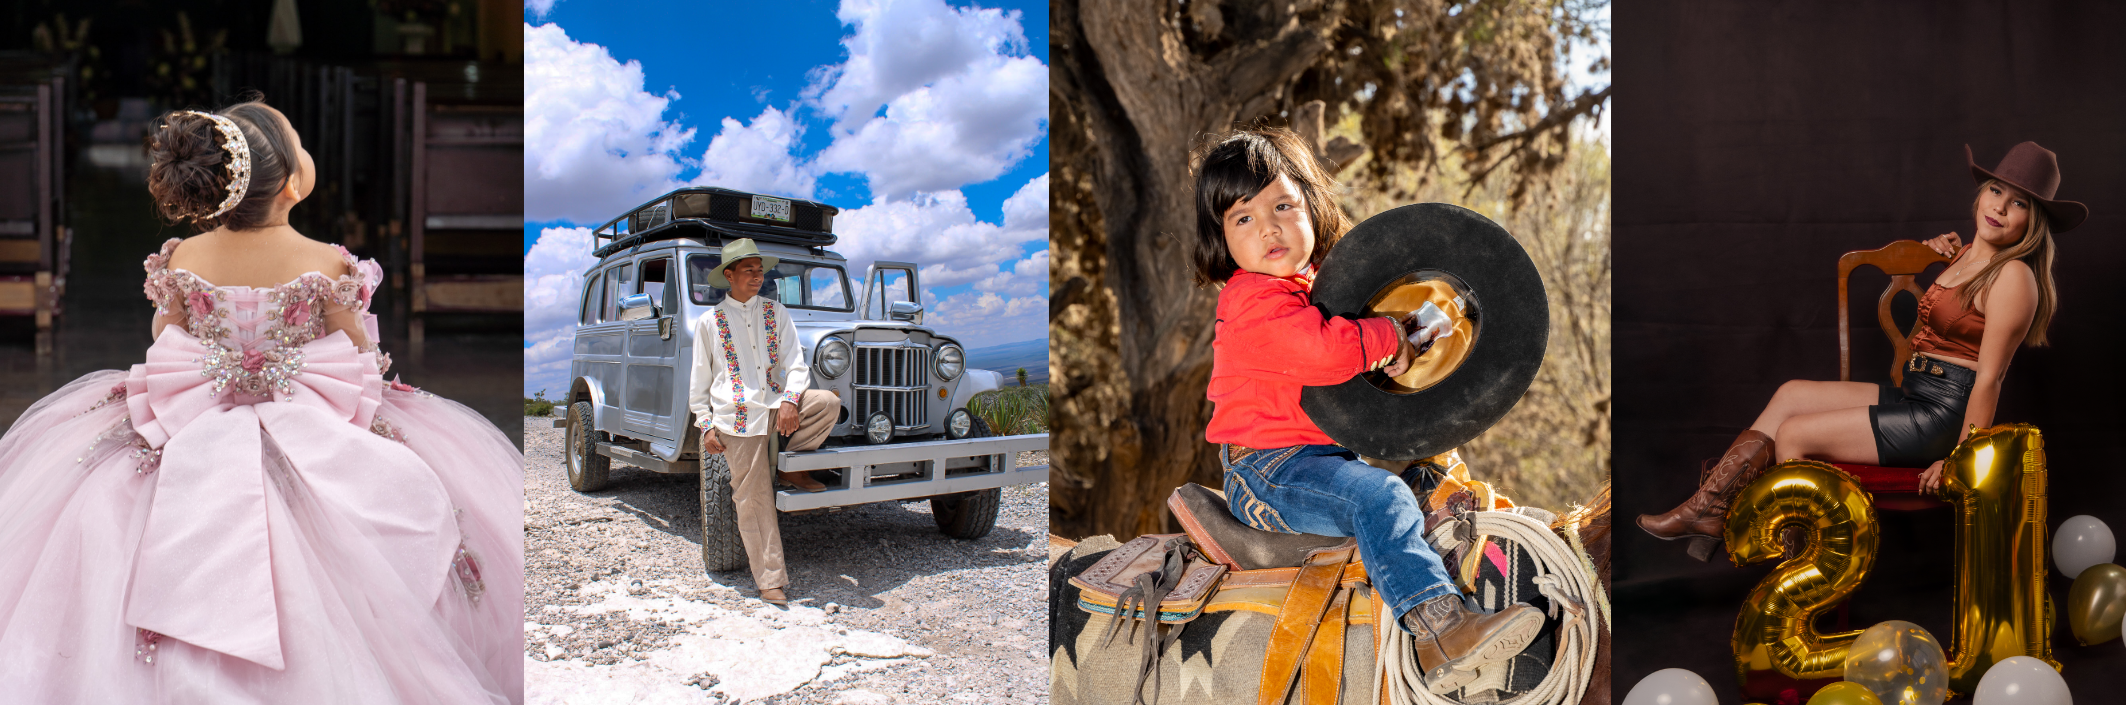
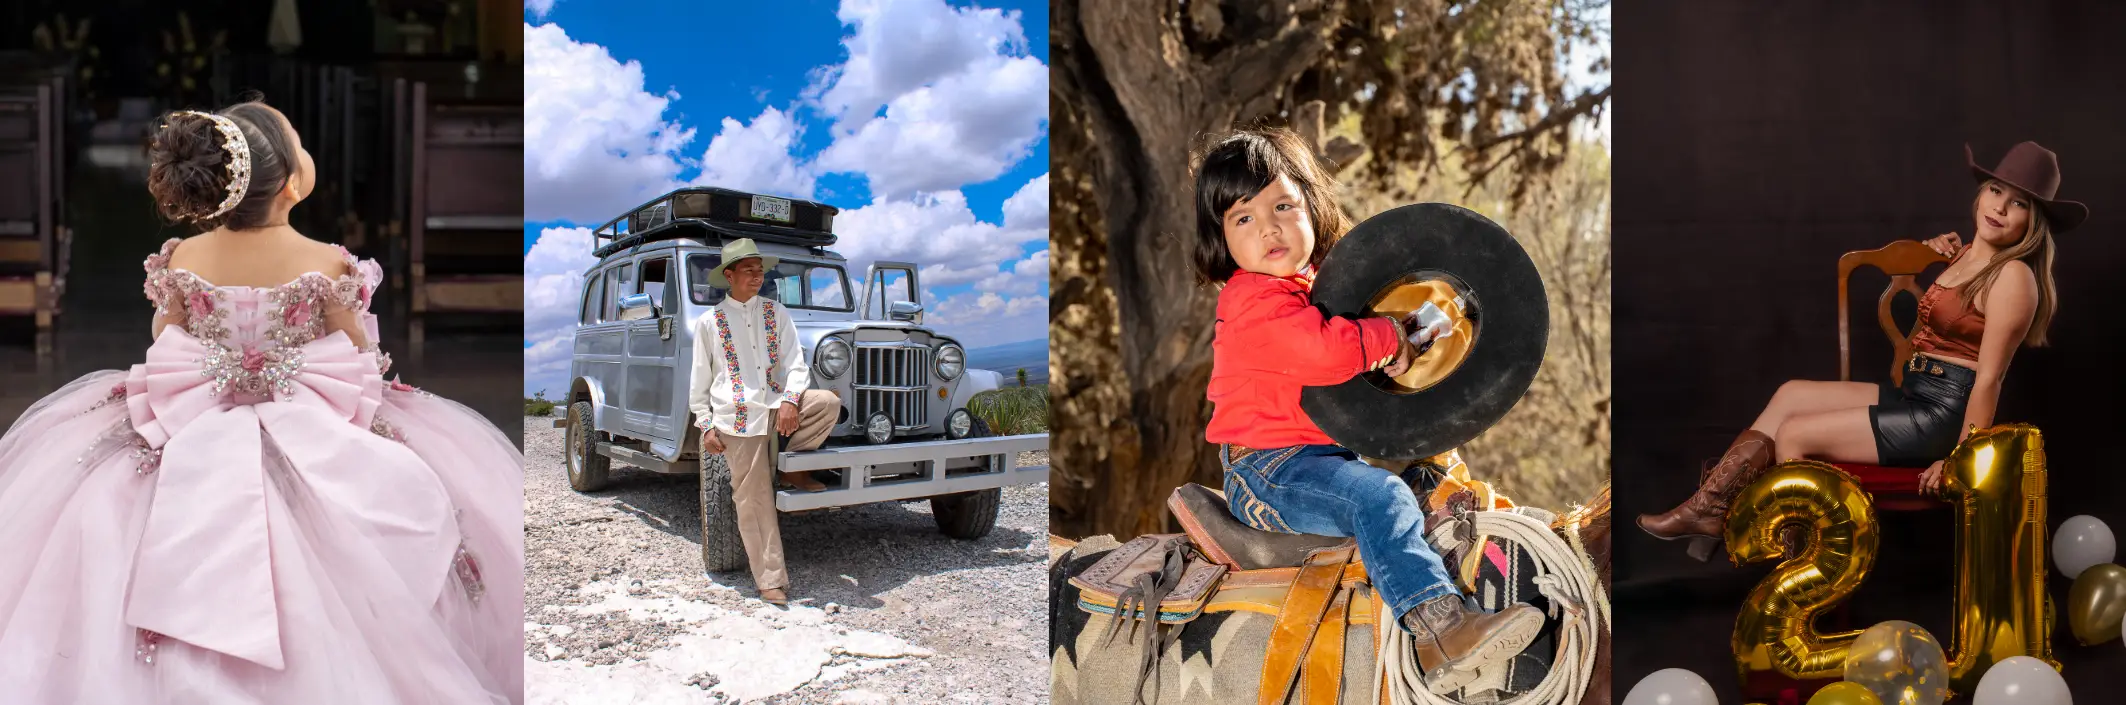
cambio del formato de imagenes a web

diff --git a/pages/aboutMe.html b/pages/aboutMe.html
@@ -39,7 +39,7 @@
       
     <main class="main-content">
       <section class="grid-conteiner">
-        <img class="item-grid-1" src="../img/sobreMi/Foto.jpg">
+        <img class="item-grid-1" src="../img/sobreMi/Foto.webp">
         <h2 class="item-grid-2">Sobre Mi</h2>
         <p class="item-grid-3">¡Hola! Soy Antonio Varela Díaz, un apasionado fotógrafo dedicado a capturar los momentos más importantes de la vida. 
           Cuento con experiencia en sesiones de retrato, eventos especiales y proyectos personalizados.      <br> <br>
